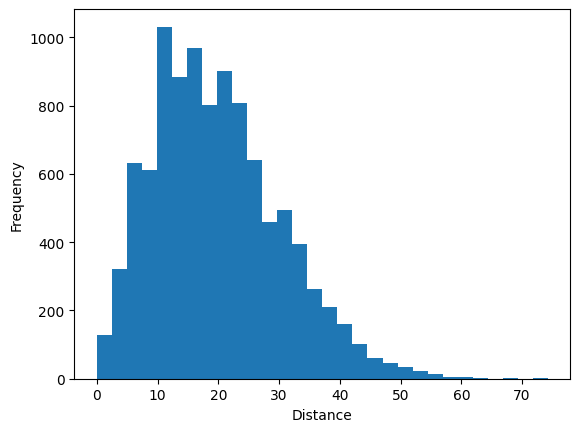
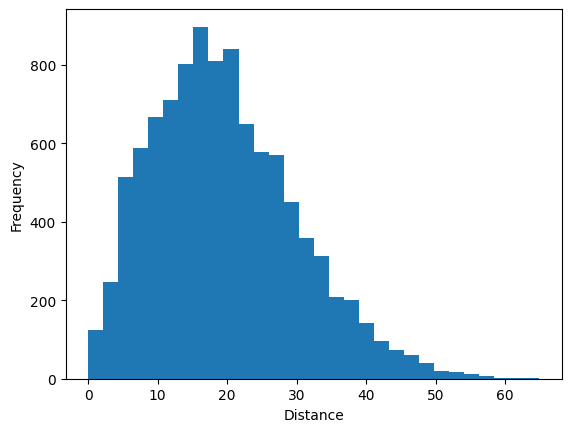
HW3 p2

diff --git a/HW Assignments/HW3/Homework_Assignment3.html b/HW Assignments/HW3/Homework_Assignment3.html
@@ -143,13 +143,13 @@ pre > code.sourceCode > span > a:first-child::before { text-decoration: underlin
 <span id="cb1-8"><a href="#cb1-8" aria-hidden="true" tabindex="-1"></a>sentence_list <span class="op">=</span> sentence.split(<span class="st">" "</span>)</span>
 <span id="cb1-9"><a href="#cb1-9" aria-hidden="true" tabindex="-1"></a></span>
 <span id="cb1-10"><a href="#cb1-10" aria-hidden="true" tabindex="-1"></a><span class="cf">for</span> word <span class="kw">in</span> sentence_list:</span>
-<span id="cb1-11"><a href="#cb1-11" aria-hidden="true" tabindex="-1"></a>    <span class="cf">if</span> word.lower() <span class="kw">not</span> <span class="kw">in</span> word_counts: <span class="co"># append word and # of occurances to word_counts dict if we haven't already added it</span></span>
+<span id="cb1-11"><a href="#cb1-11" aria-hidden="true" tabindex="-1"></a>    <span class="cf">if</span> word.lower() <span class="kw">not</span> <span class="kw">in</span> word_counts: <span class="co"># append word and # of occurences to word_counts dict if we haven't already added it</span></span>
 <span id="cb1-12"><a href="#cb1-12" aria-hidden="true" tabindex="-1"></a>        word_counts[word.lower()] <span class="op">=</span> count_word(word.lower(), sentence)</span>
 <span id="cb1-13"><a href="#cb1-13" aria-hidden="true" tabindex="-1"></a></span>
-<span id="cb1-14"><a href="#cb1-14" aria-hidden="true" tabindex="-1"></a>max_count <span class="op">=</span> <span class="bu">max</span>(word_counts, key<span class="op">=</span>word_counts.get) <span class="co"># get the word with the highest number of occurances</span></span>
-<span id="cb1-15"><a href="#cb1-15" aria-hidden="true" tabindex="-1"></a><span class="bu">print</span>(<span class="st">"The word with the maximum number of occurances is '</span><span class="sc">{}</span><span class="st">' and it occurs </span><span class="sc">{}</span><span class="st"> times."</span>.<span class="bu">format</span>(max_count, word_counts[max_count]))</span></code></pre></div><button title="Copy to Clipboard" class="code-copy-button"><i class="bi"></i></button></div>
+<span id="cb1-14"><a href="#cb1-14" aria-hidden="true" tabindex="-1"></a>max_count <span class="op">=</span> <span class="bu">max</span>(word_counts, key<span class="op">=</span>word_counts.get) <span class="co"># get the word with the highest number of occurences; we don't care which word we choose if multiple are tied, so no need to go any further</span></span>
+<span id="cb1-15"><a href="#cb1-15" aria-hidden="true" tabindex="-1"></a><span class="bu">print</span>(<span class="st">"The word with the maximum number of occurences is '</span><span class="sc">{}</span><span class="st">' and it occurs </span><span class="sc">{}</span><span class="st"> times."</span>.<span class="bu">format</span>(max_count, word_counts[max_count]))</span></code></pre></div><button title="Copy to Clipboard" class="code-copy-button"><i class="bi"></i></button></div>
 <div class="cell-output cell-output-stdout">
-<pre><code>The word with the maximum number of occurances is 'sea' and it occurs 3 times.</code></pre>
+<pre><code>The word with the maximum number of occurences is 'sea' and it occurs 3 times.</code></pre>
 </div>
 </div>
 </section>
@@ -171,14 +171,14 @@ pre > code.sourceCode > span > a:first-child::before { text-decoration: underlin
 <li>For one step, pick a random integer between 1 and 4 (or in any range of four numbers) using the <strong>randint</strong> function from the <strong>random</strong> library. Use the possible values of this integer as the keys for the possible directions. Update the x and y coordinates accordingly.</li>
 <li>You need to take the square root to calculate the <strong>Euclidean distance</strong> from the origin at the end. Use <strong>np.sqrt</strong>, the square root function of <strong>Numpy</strong>.</li>
 </ol>
-<div id="cce127e1-b86a-4708-bbfe-e3653061b063" class="cell">
-<div class="code-copy-outer-scaffold"><div class="sourceCode cell-code" id="cb4"><pre class="sourceCode python code-with-copy"><code class="sourceCode python"><span id="cb4-1"><a href="#cb4-1" aria-hidden="true" tabindex="-1"></a><span class="im">import</span> random</span>
+<div id="cce127e1-b86a-4708-bbfe-e3653061b063" class="cell" data-execution_count="89">
+<div class="code-copy-outer-scaffold"><div class="sourceCode cell-code" id="cb4"><pre class="sourceCode python code-with-copy"><code class="sourceCode python"><span id="cb4-1"><a href="#cb4-1" aria-hidden="true" tabindex="-1"></a><span class="im">from</span> random <span class="im">import</span> randint</span>
 <span id="cb4-2"><a href="#cb4-2" aria-hidden="true" tabindex="-1"></a><span class="im">import</span> numpy <span class="im">as</span> np</span>
 <span id="cb4-3"><a href="#cb4-3" aria-hidden="true" tabindex="-1"></a></span>
 <span id="cb4-4"><a href="#cb4-4" aria-hidden="true" tabindex="-1"></a><span class="kw">def</span> random_walk_generator(steps):</span>
 <span id="cb4-5"><a href="#cb4-5" aria-hidden="true" tabindex="-1"></a>    current_coords <span class="op">=</span> [<span class="dv">0</span>, <span class="dv">0</span>] <span class="co"># use a list as we need mutability to update coordinates</span></span>
 <span id="cb4-6"><a href="#cb4-6" aria-hidden="true" tabindex="-1"></a>    <span class="cf">for</span> i <span class="kw">in</span> <span class="bu">range</span>(steps):</span>
-<span id="cb4-7"><a href="#cb4-7" aria-hidden="true" tabindex="-1"></a>        direction <span class="op">=</span> random.randint(<span class="dv">1</span>, <span class="dv">4</span>)</span>
+<span id="cb4-7"><a href="#cb4-7" aria-hidden="true" tabindex="-1"></a>        direction <span class="op">=</span> randint(<span class="dv">1</span>, <span class="dv">4</span>)</span>
 <span id="cb4-8"><a href="#cb4-8" aria-hidden="true" tabindex="-1"></a></span>
 <span id="cb4-9"><a href="#cb4-9" aria-hidden="true" tabindex="-1"></a>        <span class="cf">if</span> direction <span class="op">==</span> <span class="dv">1</span>: <span class="co"># go north</span></span>
 <span id="cb4-10"><a href="#cb4-10" aria-hidden="true" tabindex="-1"></a>            current_coords[<span class="dv">0</span>] <span class="op">+=</span> <span class="dv">1</span></span>
@@ -192,8 +192,8 @@ pre > code.sourceCode > span > a:first-child::before { text-decoration: underlin
 <span id="cb4-18"><a href="#cb4-18" aria-hidden="true" tabindex="-1"></a>    <span class="cf">return</span> <span class="bu">float</span>(np.sqrt(current_coords[<span class="dv">0</span>]<span class="op">**</span><span class="dv">2</span> <span class="op">+</span> current_coords[<span class="dv">1</span>]<span class="op">**</span><span class="dv">2</span>)) <span class="co"># calculate Euclidean distance from origin and convert from np float64 to python float</span></span>
 <span id="cb4-19"><a href="#cb4-19" aria-hidden="true" tabindex="-1"></a></span>
 <span id="cb4-20"><a href="#cb4-20" aria-hidden="true" tabindex="-1"></a>random_walk_generator(<span class="dv">500</span>)</span></code></pre></div><button title="Copy to Clipboard" class="code-copy-button"><i class="bi"></i></button></div>
-<div class="cell-output cell-output-display" data-execution_count="33">
-<pre><code>15.231546211727817</code></pre>
+<div class="cell-output cell-output-display" data-execution_count="89">
+<pre><code>17.029386365926403</code></pre>
 </div>
 </div>
 </section>
@@ -201,13 +201,13 @@ pre > code.sourceCode > span > a:first-child::before { text-decoration: underlin
 <h3 class="anchored" data-anchor-id="b">b)</h3>
 <p>Like most experiments/simulations with randomness involved, more reliable output can be obtained by running the function for multiple trials. Call the <strong>random_walk_generator</strong> function 10,000 times with 500 steps each time. Store all outputs in a list called <strong>random_walk_distances</strong>. <strong>(5 points)</strong></p>
 <p>Afterwards, run the given code to print the average distance over all trials and to plot a histogram that shows how the distance is distributed over the 10,000 random walk trials. (You do not need to change anything in the given code.)</p>
-<div id="3096f3ab-dd5e-4d68-a947-66f6609f5ece" class="cell" data-execution_count="34">
+<div id="3096f3ab-dd5e-4d68-a947-66f6609f5ece" class="cell" data-execution_count="90">
 <div class="code-copy-outer-scaffold"><div class="sourceCode cell-code" id="cb6"><pre class="sourceCode python code-with-copy"><code class="sourceCode python"><span id="cb6-1"><a href="#cb6-1" aria-hidden="true" tabindex="-1"></a>random_walk_distances <span class="op">=</span> []</span>
 <span id="cb6-2"><a href="#cb6-2" aria-hidden="true" tabindex="-1"></a></span>
 <span id="cb6-3"><a href="#cb6-3" aria-hidden="true" tabindex="-1"></a><span class="cf">for</span> i <span class="kw">in</span> <span class="bu">range</span>(<span class="dv">10000</span>):</span>
 <span id="cb6-4"><a href="#cb6-4" aria-hidden="true" tabindex="-1"></a>    random_walk_distances.append(random_walk_generator(<span class="dv">500</span>))</span></code></pre></div><button title="Copy to Clipboard" class="code-copy-button"><i class="bi"></i></button></div>
 </div>
-<div id="218dfbe6-c56a-414f-b588-cf30d40e15da" class="cell" data-execution_count="35">
+<div id="218dfbe6-c56a-414f-b588-cf30d40e15da" class="cell" data-execution_count="91">
 <div class="code-copy-outer-scaffold"><div class="sourceCode cell-code" id="cb7"><pre class="sourceCode python code-with-copy"><code class="sourceCode python"><span id="cb7-1"><a href="#cb7-1" aria-hidden="true" tabindex="-1"></a><span class="im">import</span> matplotlib.pyplot <span class="im">as</span> plt</span>
 <span id="cb7-2"><a href="#cb7-2" aria-hidden="true" tabindex="-1"></a></span>
 <span id="cb7-3"><a href="#cb7-3" aria-hidden="true" tabindex="-1"></a><span class="bu">print</span>(<span class="st">'Average distance for 500 steps over 10,000 trials:'</span>, np.mean(random_walk_distances))</span>
@@ -216,7 +216,7 @@ pre > code.sourceCode > span > a:first-child::before { text-decoration: underlin
 <span id="cb7-6"><a href="#cb7-6" aria-hidden="true" tabindex="-1"></a>plt.ylabel(<span class="st">'Frequency'</span>)</span>
 <span id="cb7-7"><a href="#cb7-7" aria-hidden="true" tabindex="-1"></a>plt.show()</span></code></pre></div><button title="Copy to Clipboard" class="code-copy-button"><i class="bi"></i></button></div>
 <div class="cell-output cell-output-stdout">
-<pre><code>Average distance for 500 steps over 10,000 trials: 19.84396410850669</code></pre>
+<pre><code>Average distance for 500 steps over 10,000 trials: 19.677598558894054</code></pre>
 </div>
 <div class="cell-output cell-output-display">
 <div>
@@ -259,11 +259,12 @@ pre > code.sourceCode > span > a:first-child::before { text-decoration: underlin
 <section id="c" class="level3">
 <h3 class="anchored" data-anchor-id="c">c)</h3>
 <p>Use the list created in Part a to calculate and print the percentage of changes that are greater than $1000. <strong>(10 points)</strong></p>
-<div id="b04b8985-3200-4b15-bd56-b9e40c881271" class="cell" data-execution_count="47">
+<div id="b04b8985-3200-4b15-bd56-b9e40c881271" class="cell" data-execution_count="92">
 <div class="code-copy-outer-scaffold"><div class="sourceCode cell-code" id="cb13"><pre class="sourceCode python code-with-copy"><code class="sourceCode python"><span id="cb13-1"><a href="#cb13-1" aria-hidden="true" tabindex="-1"></a>changes_greater_1000 <span class="op">=</span> [change <span class="cf">for</span> change <span class="kw">in</span> gdp_differences <span class="cf">if</span> change <span class="op">&gt;</span> <span class="dv">1000</span>] <span class="co"># generate a list of just the changes greater than $1000</span></span>
-<span id="cb13-2"><a href="#cb13-2" aria-hidden="true" tabindex="-1"></a><span class="bu">print</span>(<span class="bu">len</span>(changes_greater_1000)<span class="op">/</span><span class="bu">len</span>(gdp_differences))</span></code></pre></div><button title="Copy to Clipboard" class="code-copy-button"><i class="bi"></i></button></div>
+<span id="cb13-2"><a href="#cb13-2" aria-hidden="true" tabindex="-1"></a>proportion_greater_1000 <span class="op">=</span> <span class="bu">len</span>(changes_greater_1000)<span class="op">/</span><span class="bu">len</span>(gdp_differences)</span>
+<span id="cb13-3"><a href="#cb13-3" aria-hidden="true" tabindex="-1"></a><span class="bu">print</span>(<span class="ss">f"</span><span class="sc">{</span>proportion_greater_1000<span class="sc">:.2%}</span><span class="ss">"</span>) <span class="co"># print formatted as a % to two decimal places</span></span></code></pre></div><button title="Copy to Clipboard" class="code-copy-button"><i class="bi"></i></button></div>
 <div class="cell-output cell-output-stdout">
-<pre><code>0.5245901639344263</code></pre>
+<pre><code>52.46%</code></pre>
 </div>
 </div>
 </section>
